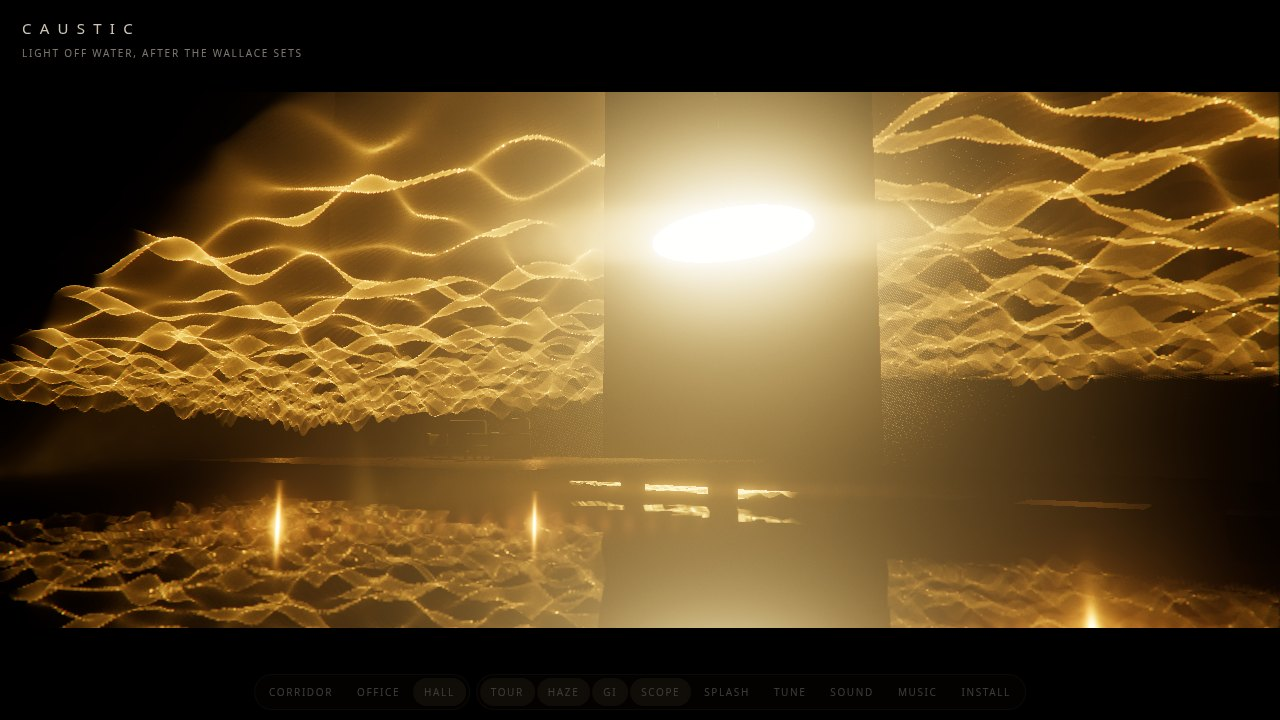
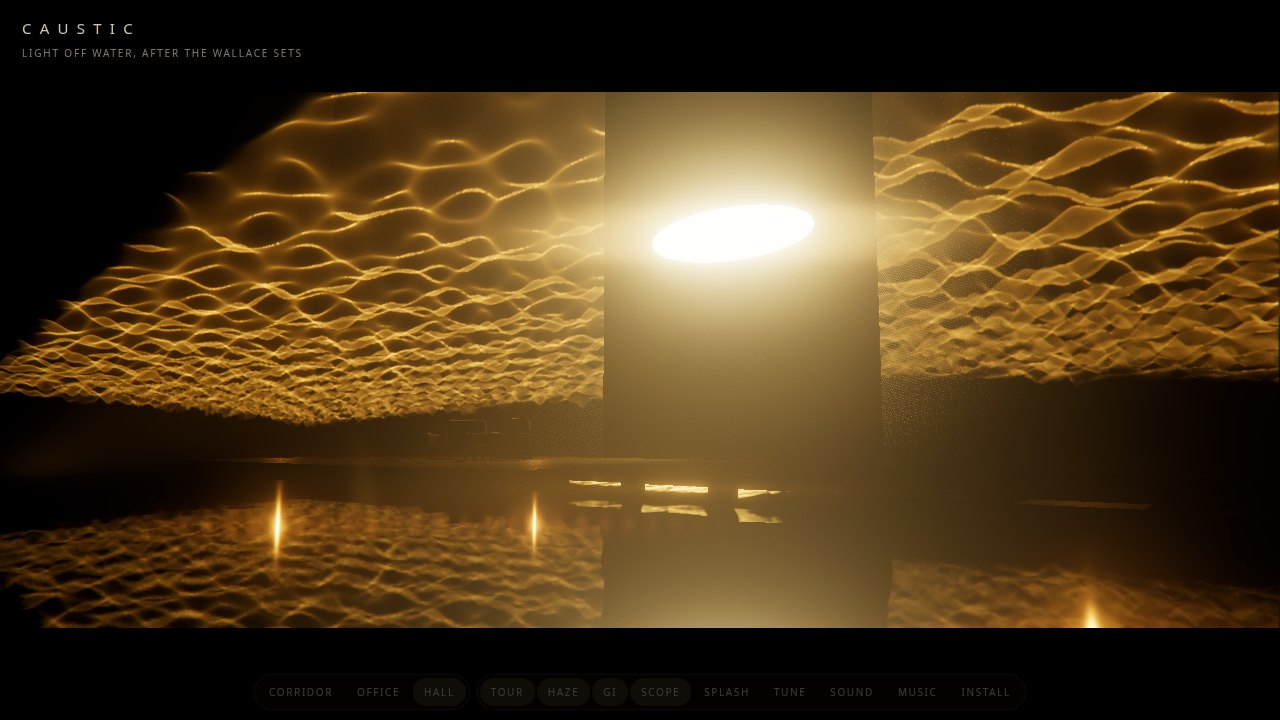
Caustic: per-set tuning as defaults (the Tune sliders scale it), ?hq for twice the traced resolution, two targets a lamp

diff --git a/vibes/caustic/scenes.js b/vibes/caustic/scenes.js
@@ -46,7 +46,7 @@ function armchair(g, mat, legMat, x, z, ry, s = 1) {
 
 // ---------------------------------------------------------------- the corridor
 
-export function corridor(renderer, { phone = false } = {}) {
+export function corridor(renderer, { phone = false, hq = false } = {}) {
   const g = new THREE.Group(), W = 5.4, H = 5.6, z0 = 3, z1 = -10.6;
   const planks = rough({ panel: [1.6, 6] });
   const floorWood = rough({ base: 0x6e6450, panel: [2.7, 2.7], rough: 0.75 });
@@ -85,7 +85,7 @@ export function corridor(renderer, { phone = false } = {}) {
 
   // light: three lamps high outside, each shining down through a glass tank of water over the open roof, steeply
   // onto the walls from either side and down the stairs from behind
-  const sh = phone ? 512 : 1024, res = phone ? 512 : 1024;
+  const sh = phone ? 512 : 1024, res = phone ? 512 : hq ? 2048 : 1024;
   const tank = (o) => new Trough(renderer, { mode: 'refract', color: GOLD, res, shadow: sh, far: 40, lMin: 0.2, lMax: 0.9, slope: 0.05, speed: 0.3, slosh: 0, disp: 0.012, ...o });
   const W3 = [
     tank({ at: [1.5, 7, -2.75], size: [2.5, 4.5], from: [8.5, 15, -2], lux: 6.6, dir: 0.3, spread: 1.1, seed: 3 }),
@@ -98,6 +98,7 @@ export function corridor(renderer, { phone = false } = {}) {
   const fill = new THREE.HemisphereLight(0x8a7044, 0x1a1408, 0.06); g.add(fill);
   return {
     group: g, caustics: W3, lights: L,
+    tuned: { exposure: 1.75, haze: 6, size: 1.63, sharp: 0.28, speed: 1.35 },
     look: { exposure: 0.72, ...GRADE, haze: 0.0205, fog: 0x2a1f0c, bg: 0x050302 },
     volume: { size: [W, H + 1.5, z0 - z1], at: [0, (H + 1.5) / 2, (z0 + z1) / 2] },
     shots: [
@@ -111,7 +112,7 @@ export function corridor(renderer, { phone = false } = {}) {
 
 // ---------------------------------------------------------------- Wallace's office
 
-export function office(renderer, { phone = false } = {}) {
+export function office(renderer, { phone = false, hq = false } = {}) {
   const g = new THREE.Group(), X = 5.4, H = 6, zf = 6, zb = -8;
   const walls = rough({ panel: [2.6, 3], seam: 0.25 });
   const floorMat = rough({ base: 0x6e6450, panel: [4, 4], rough: 0.45, seam: 0.15, bump: 0.5 });
@@ -145,7 +146,7 @@ export function office(renderer, { phone = false } = {}) {
   // light: low lamps shining down into troughs of water on the floor along the front wall, their reflections
   // fanning up over the back and side walls and the ceiling; and a lamp over the skylight's tank, down onto the
   // floor. Broad, slow ribbons.
-  const sh = phone ? 512 : 1024, res = phone ? 512 : 1024;
+  const sh = phone ? 512 : 1024, res = phone ? 512 : hq ? 2048 : 1024;
   const trough = (o) => new Trough(renderer, { mode: 'reflect', color: GOLD, res, shadow: sh, far: 40, lMin: 0.06, lMax: 0.3, slope: 0.015, dir: Math.PI / 2, spread: 0.4, speed: 0.3, slosh: 0.01, ...o });
   const dark = plain(0x050403, 0.9), still = plain(0x020202, 0.05);
   const W4 = [
@@ -165,6 +166,7 @@ export function office(renderer, { phone = false } = {}) {
   g.add(new THREE.HemisphereLight(0x8a7044, 0x2a2010, 0.08));
   return {
     group: g, caustics: [...W4, soft], lights: L,
+    tuned: { exposure: 0.5 },
     look: { exposure: 0.72, ...GRADE, haze: 0.0103, fog: 0x2a200c, bg: 0x070502 },
     volume: { size: [2 * X, H, zf - zb], at: [0, H / 2, (zf + zb) / 2] },
     shots: [
@@ -178,7 +180,7 @@ export function office(renderer, { phone = false } = {}) {
 
 // ---------------------------------------------------------------- the hall of water
 
-export function hall(renderer, scene, { phone = false } = {}) {
+export function hall(renderer, scene, { phone = false, hq = false } = {}) {
   const g = new THREE.Group();
   const deck = wood({ base: 0x3a2412, light: 0x6a4824, h: 0.45, rough: 0.5 });
   const black = leather(0x141110, 0.38), steel = plain(0x3a3632, 0.35, 1), stone = plain(0x0d0b09, 0.6);
@@ -207,7 +209,7 @@ export function hall(renderer, scene, { phone = false } = {}) {
   // the wall light: two lamps low by the platform shine down onto the flooded floor, which throws fine ripples up
   // the far curved walls
   const sh = phone ? 512 : 1024;
-  const pool = (o) => new Trough(renderer, { mode: 'reflect', color: GOLD, res: phone ? 512 : 1024, shadow: sh, far: 90, lMin: 0.07, lMax: 0.3, slope: 0.015, speed: 0.35, slosh: 0, ...o });
+  const pool = (o) => new Trough(renderer, { mode: 'reflect', color: GOLD, res: phone ? 512 : hq ? 2048 : 1024, shadow: sh, far: 90, lMin: 0.07, lMax: 0.3, slope: 0.015, speed: 0.35, slosh: 0, ...o });
   const src = (c, to, d) => { const v = new THREE.Vector3(...to).sub(new THREE.Vector3(...c)).normalize(); return new THREE.Vector3(...c).addScaledVector(v, -d).toArray(); };
   const W2 = [
     pool({ at: [-6, 0, 4], size: [2, 2], from: src([-6, 0, 4], [-12, 3, -6], 1.5), lux: 8.8, seed: 5 }),
@@ -222,6 +224,7 @@ export function hall(renderer, scene, { phone = false } = {}) {
   g.add(new THREE.HemisphereLight(0x3a3018, 0x050302, 0.03));
   return {
     group: g, caustics: W2, lights: L, reflector: w.reflector,
+    tuned: { exposure: 0.6, size: 0.6, height: 0.5 },
     look: { exposure: 1.0, ...GRADE, haze: 0.0066, fog: 0x0a0803, bg: 0x000000 },
     volume: { size: [50, 14, 30], at: [0, 7, -9] }, // stops short of the low wall lamps, which would glare
     shots: [

diff --git a/vibes/caustic/main.js b/vibes/caustic/main.js
@@ -32,6 +32,7 @@ const Q = new URLSearchParams(location.search + '&' + location.hash.slice(1));
 const $ = (id) => document.getElementById(id);
 const phone = matchMedia('(pointer: coarse)').matches || Q.has('phone');
 const OFF = Q.has('offscreen'), SHOT = Q.has('shot');
+const HQ = Q.has('hq'); // twice the traced light's resolution: 4x the texels and video memory
 const VOL = 10; // the layer the haze and its lights are on
 
 // ---------------------------------------------------------------- renderer
@@ -150,7 +151,7 @@ async function snapshot() {
 const sets = {};
 let cur = null, name = null;
 function build(n) {
-  if (!sets[n]) sets[n] = n === 'hall' ? SCENES.hall(renderer, scene, { phone }) : SCENES[n](renderer, { phone });
+  if (!sets[n]) sets[n] = n === 'hall' ? SCENES.hall(renderer, scene, { phone, hq: HQ }) : SCENES[n](renderer, { phone, hq: HQ });
   return sets[n];
 }
 function show(n, shot = 0) {
@@ -182,16 +183,18 @@ const TUNE = { warmth: 1, colour: 1, exposure: 1, haze: 1, size: 1, sharp: 1, he
 const lerpTint = (t, w) => { const y = 0.2126 * t[0] + 0.7152 * t[1] + 0.0722 * t[2]; return t.map((c) => Math.max(0, y + (c - y) * w)); };
 function applyTune() {
   const S = cur; if (!S) return;
+  // each set's own tuning (found by eye on each set) is the sliders' 1: TUNE scales it
+  const D = { exposure: 1, haze: 1, size: 1, sharp: 1, height: 1, speed: 1, ...S.tuned }, K = (k) => TUNE[k] * D[k];
   LOOK.tint.value.set(...lerpTint(S.look.tint, TUNE.warmth));
   LOOK.sat.value = TUNE.colour <= 1 ? S.look.sat * TUNE.colour : S.look.sat + (1 - S.look.sat) * (TUNE.colour - 1);
-  renderer.toneMappingExposure = S.look.exposure * TUNE.exposure;
-  hazeAmount.value = S.look.haze * TUNE.haze;
+  renderer.toneMappingExposure = S.look.exposure * K('exposure');
+  hazeAmount.value = S.look.haze * K('haze');
   for (const l of S.lights) {
     l.userData.color0 ??= l.color.clone();
     const w = Math.min(1, TUNE.warmth), c0 = l.userData.color0, y = 0.2126 * c0.r + 0.7152 * c0.g + 0.0722 * c0.b;
     l.color.setRGB(y + (c0.r - y) * w, y + (c0.g - y) * w, y + (c0.b - y) * w);
   }
-  for (const c of S.caustics) { c.depth.value = c.base.depth * TUNE.sharp; c.amp.value = c.base.amp * TUNE.height; if (c.scale) c.scale.value = 1 / TUNE.size; }
+  for (const c of S.caustics) { c.depth.value = c.base.depth * K('sharp'); c.amp.value = c.base.amp * K('height'); if (c.scale) c.scale.value = 1 / K('size'); }
 }
 
 // Splashes: tap a lit wall and the water that throws that light ripples. The tap's point is found in the scene,
@@ -282,7 +285,7 @@ function frame() {
   }
   if (tour && !pending) { const s = cur.shots[shotIndex]; shotT += dt / s.dur; place(shotT); if (shotT > 1 && !fadeT) next(); }
   else if (!tour) controls.update();
-  wt += dt * TUNE.speed;
+  wt += dt * TUNE.speed * (cur.tuned?.speed ?? 1);
   cur.update?.(t);
   for (const c of cur.caustics) c.update(wt);
   if (drone.on) drone.set(name);
@@ -297,7 +300,7 @@ if ('serviceWorker' in navigator && !SHOT && location.protocol === 'https:') nav
 // for the smoke test
 window.__caustic = {
   renderer, scene, camera, sets, get set() { return name; }, LOOK, hazeOn, GI, TUNE, applyTune, splashAt, splashAll, renderBars,
-  show, async frame(n = 1, dt = 1 / 30) { for (let i = 0; i < n; i++) { t += dt; wt += dt * TUNE.speed; cur.update?.(t); for (const c of cur.caustics) c.update(wt); if (tour && cur) { shotT += dt / cur.shots[shotIndex].dur; place(Math.min(1, shotT)); } } await snapshot(); },
+  show, async frame(n = 1, dt = 1 / 30) { for (let i = 0; i < n; i++) { t += dt; wt += dt * TUNE.speed * (cur.tuned?.speed ?? 1); cur.update?.(t); for (const c of cur.caustics) c.update(wt); if (tour && cur) { shotT += dt / cur.shots[shotIndex].dur; place(Math.min(1, shotT)); } } await snapshot(); },
   shot(i, at = 0.5) { startShot(i); shotT = at; place(at); },
   // the position maps against a ray cast on the CPU from each source through the same places of its projection:
   // the worst miss in metres over the probes that hit something

diff --git a/vibes/caustic/caustics.js b/vibes/caustic/caustics.js
@@ -133,7 +133,7 @@ export class Trough {
    */
   constructor(renderer, {
     mode = 'reflect', at = [0, 0, 0], size = [2, 1], turn = 0, from, color = 0xffb840, lux = 6, lMin = 0.05, lMax = 0.3, slope = 0.03, dir = 0, spread = Math.PI,
-    speed = 0.3, slosh = 0.01, disp = mode === 'reflect' ? 0 : 0.03, cell = 2, res = 1024, posRes = 384, shadow = 1024, near = 0.3, far = 60, seed = 1, edge = 0.03, eta = 1.333, soft = 0.035, blur = 0.8,
+    speed = 0.3, slosh = 0.01, disp = mode === 'reflect' ? 0 : 0.03, cell = 4, res = 1024, posRes = 384, shadow = 1024, near = 0.3, far = 60, seed = 1, edge = 0.03, eta = 1.333, soft = 0.035, blur = 0.8,
   } = {}) {
     this.renderer = renderer; this.mode = mode; this.lux = lux;
     this.C = new THREE.Vector3(...at);
@@ -183,14 +183,14 @@ export class Trough {
     const rw = cam.aspect >= 1 ? Math.min(3 * res, Math.round(res * cam.aspect)) : res, rh = cam.aspect >= 1 ? res : Math.min(3 * res, Math.round(res / cam.aspect));
     // mipmapped, so a wall far off or seen at a slant averages lines thinner than its pixels instead of catching
     // them on some pixels and not others (which beads the lines' edges)
-    this.rt = new THREE.RenderTarget(rw, rh, { type: THREE.HalfFloatType, depthBuffer: false, magFilter: THREE.LinearFilter, minFilter: THREE.LinearFilter });
+    this.rt = new THREE.RenderTarget(rw, rh, { type: THREE.HalfFloatType, depthBuffer: false, magFilter: THREE.LinearFilter, minFilter: THREE.LinearMipmapLinearFilter, generateMipmaps: true });
     // The traced light is then blurred a little, by the lamp's size: the ray grid's folds end on its triangles'
     // edges, a sawtooth a cell long that a near wall magnifies into beads along every bright line; a real lamp's
     // own size softens a fold's edge by about as much.
     const rtOpt = { type: THREE.HalfFloatType, depthBuffer: false, magFilter: THREE.LinearFilter, minFilter: THREE.LinearFilter };
     this.rtH = new THREE.RenderTarget(rw, rh, rtOpt);
-    this.rtOut = new THREE.RenderTarget(rw, rh, { ...rtOpt, minFilter: THREE.LinearMipmapLinearFilter, generateMipmaps: true });
-    this.texture = this.rtOut.texture; this.texture.anisotropy = 4;
+    this.rtOut = this.rt; // the vertical pass writes back over the trace, so a lamp holds two targets, not three
+    this.texture = this.rt.texture; this.texture.anisotropy = 4;
     const blurPass = (src, dx, dy) => {
       const m = new THREE.MeshBasicNodeMaterial({ depthTest: false, depthWrite: false });
       m.fragmentNode = Fn(() => {

diff --git a/CHANGELOG.md b/CHANGELOG.md
@@ -1,6 +1,7 @@
 # Logs
 
 11 Nov 2026
+- Caustic: each set's tuning found by eye is now its default (corridor exposure x1.75, haze x6, ripples x1.63, sharpness x0.28, speed x1.35; office exposure x0.5; hall exposure x0.6, ripples x0.6, waves x0.5), and the Tune sliders scale it. `?hq` traces the light at twice the resolution. Smoother traced light: brightness from each ray's Jacobian (interpolated signed determinant, rounded by the lamp's size, bounded by the triangle's area ratio), a distance map blended across texels on one surface, a short side of 1024 texels, a lamp-size blur and mipmaps
 - Caustic: the water light is traced in 3D instead of projected from a tile. Each lamp has its own water placed in the set (glass tanks over the corridor's roof, troughs on the office floor and a tank in its skylight, patches of the hall's flooded floor), and a spot light at the light's apparent source (the lamp, or its mirror image under the water). Each frame a grid of rays, spread evenly in the lamp's projection, is bent by the waves (mirror law or Snell twice), pushed out to the surface it really lands on through a once-made map of world positions from the source, and drawn where it lands with the flat-over-wavy area ratio. The light now fans out of the water's outline, stretches along the throw, is soft near the water and sharp far from it, and no longer repeats. The texture fits the footprint (off-centre frustum, about a million texels); dispersion only for tanks. `node smoke.js` also checks each position map against CPU raycasts on both backends (27 checks)
 - Caustic: the hall's ripples now match the other sets in size (2 to 9 waves a tile, scaled about 3x across each beam, against 5 to 16 and 4.5x), and its curved walls are closer still (24 m to 17 m radius), as in the still
 - Caustic: new defaults from tuning by eye (more of the scene's colour kept through the grade, haze x0.41, caustic sharpness x0.9), lenses about 25% wider, the hall's walls closer (34 m to 24 m radius) and its light swinging mostly left to right, and the tour now cuts across the three sets before it moves to each set's next camera angle

diff --git a/vibes/caustic/README.md b/vibes/caustic/README.md
@@ -17,7 +17,8 @@ All three share one gold lamp colour, one rough concrete and one grade, so they 
 - **Corridor / Office / Hall** (keys 1, 2, 3) switch sets.
 - **Tour** plays slow camera moves with fade cuts. Space jumps to the next shot. Drag to look around yourself (orbit, zoom); Tour picks the moves up again.
 - **Tap a lit wall** to splash the water that lights it: a ring of ripples runs out from where you touched. **Splash** (`s`) stirs the water at random.
-- **Tune** (`t`) opens sliders: Warmth (how orange: the grade's tint and the lamps' colour), Colour (how much of the scene's own colour survives the grade), Exposure, Haze, Ripple size, Sharpness (the focus of the lines), Wave height (calm to choppy) and Water speed. Each scales the set's own value; double-click a slider, or Reset, to go back.
+- **Tune** (`t`) opens sliders: Warmth (how orange: the grade's tint and the lamps' colour), Colour (how much of the scene's own colour survives the grade), Exposure, Haze, Ripple size, Sharpness (the focus of the lines), Wave height (calm to choppy) and Water speed. Each scales the set's own value, which already holds that set's tuning (corridor: exposure 1.75, haze 6, ripples 1.63, sharpness 0.28, speed 1.35; office: exposure 0.5; hall: exposure 0.6, ripples 0.6, waves 0.5); double-click a slider, or Reset, to go back.
+- `?hq` doubles the traced light's resolution (a 2048-texel short side, up to 6144 long): sharper lines on near walls, four times the texels and video memory, desktop only.
 - **Haze** puts haze in the beams. **GI** turns screen-space global illumination on or off. **Scope** shows the 2.39:1 bars. **Sound** plays a drone with water under it. **Music** (`m`) plays a slow synthesised cyberpunk score. `h` hides the UI.
 - Query flags: `?set=hall`, `?webgl` (the WebGL 2 backend), `?phone` (the lighter path phones get), `?nohaze`, `?novol`, `?nogi`, `?notaa`, `?steps=N` (haze steps), `?free` (no tour; the tour cuts through the three sets in turn, then round again at each set's next angle), `?paused`.
 
